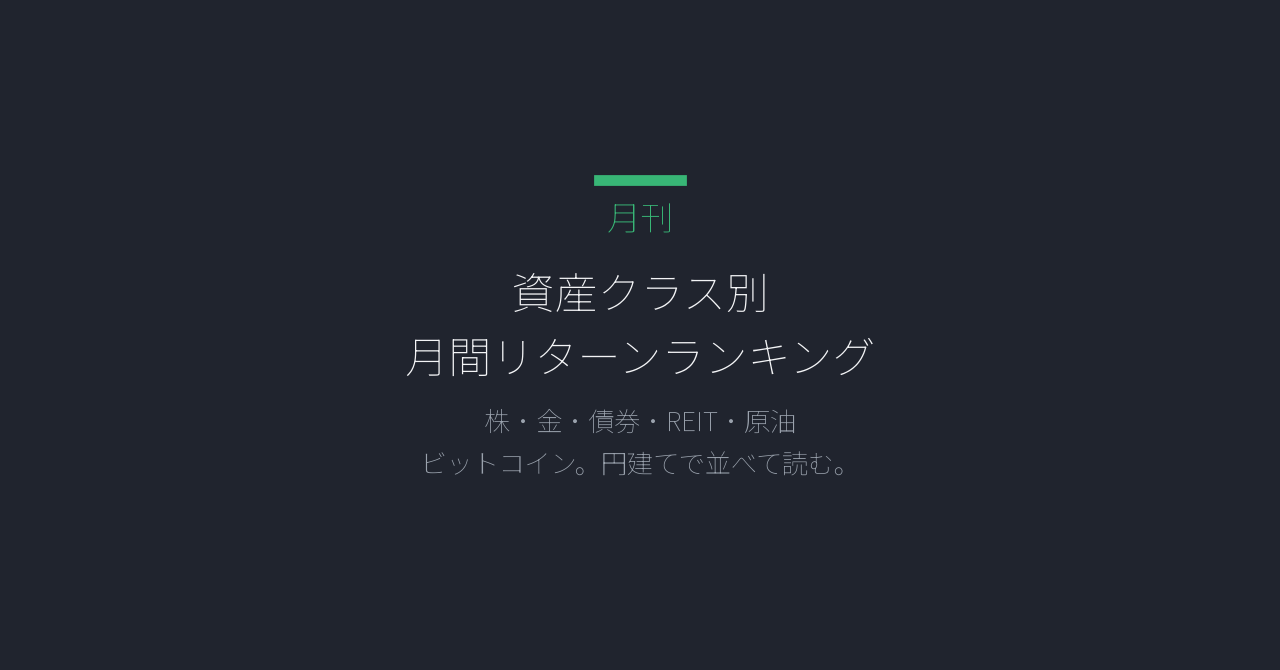
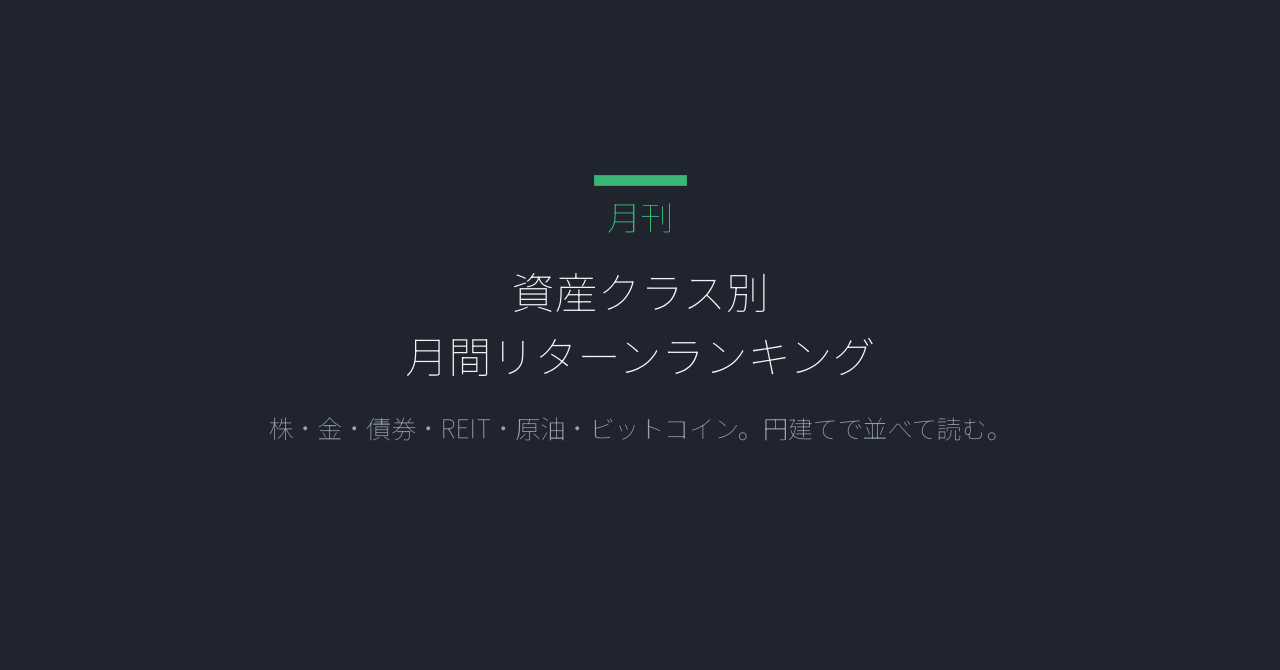
fix(6-markets): マガジン表紙のサブタイトルを1行にまとめる

Changed region(s): [[0.2188, 0.597, 0.7812, 0.7164]]

diff --git a/dev/6-markets/assets/make_cover.py b/dev/6-markets/assets/make_cover.py
@@ -50,8 +50,8 @@ def main() -> None:
     t = ax.text(CX, CY + 0.015, "資産クラス別\n月間リターンランキング", fontsize=15.5, color=TITLE,
                 fontweight="bold", ha="center", va="center", linespacing=1.5)
     t.set_path_effects([pe.withStroke(linewidth=1.0, foreground=BG)])
-    ax.text(CX, CY - 0.16, "株・金・債券・REIT・原油\nビットコイン。円建てで並べて読む。",
-            fontsize=9.5, color=MUTE, ha="center", va="center", linespacing=1.6)
+    ax.text(CX, CY - 0.14, "株・金・債券・REIT・原油・ビットコイン。円建てで並べて読む。",
+            fontsize=9, color=MUTE, ha="center", va="center")
 
     out = Path(__file__).parent / "magazine-cover.png"
     fig.savefig(out, dpi=200, facecolor=BG)
